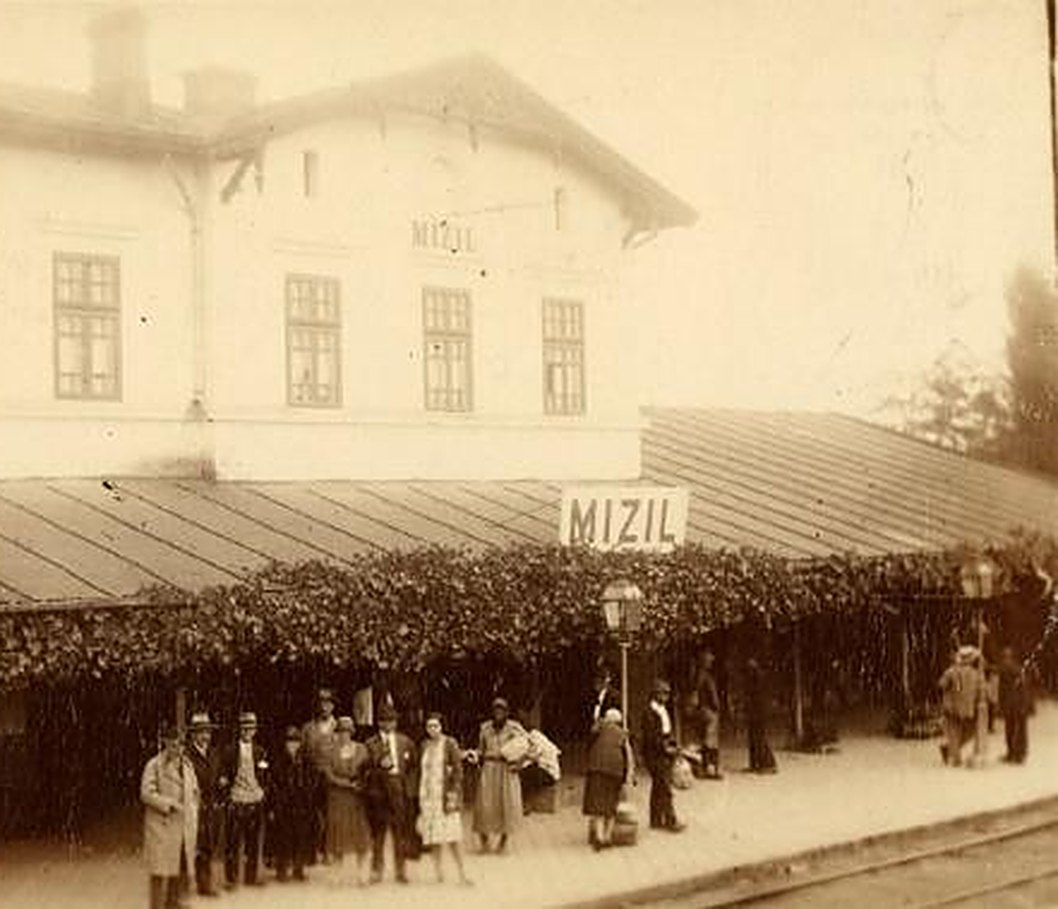
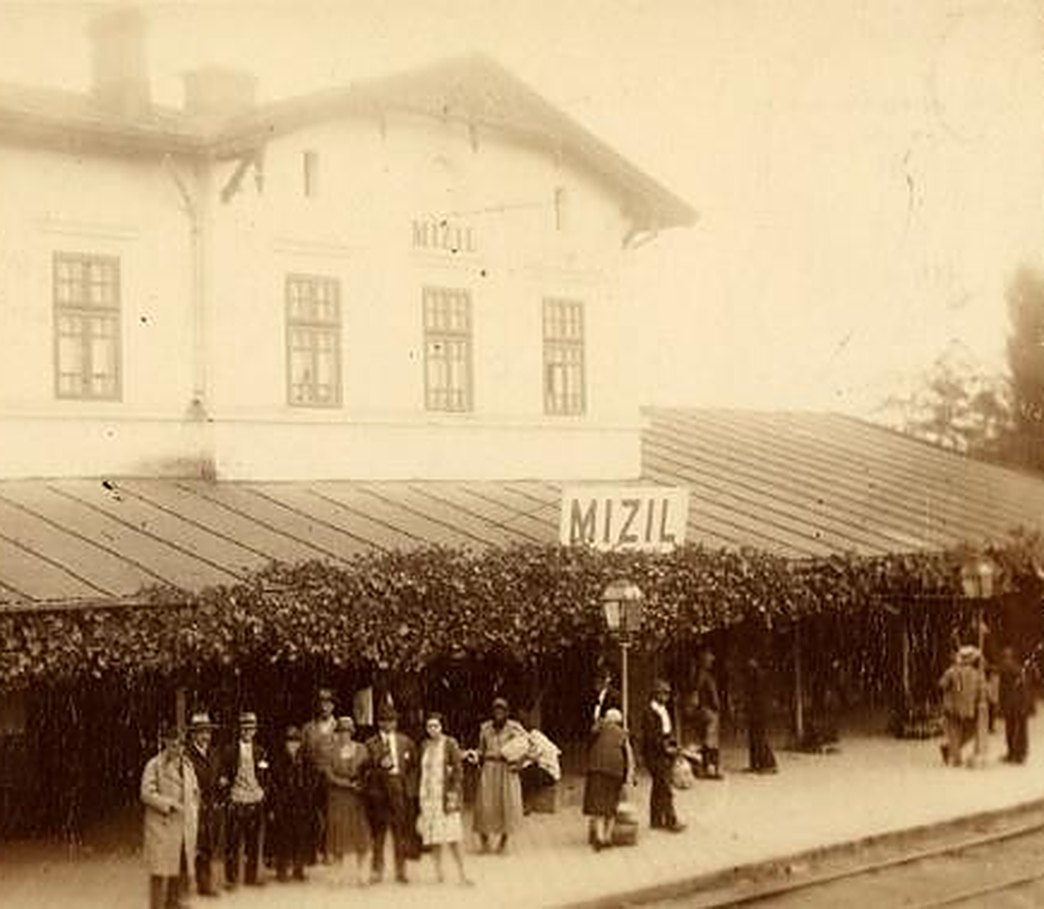
Hero: remove dark edge from station photo, enlarge image
Claude-Session: https://claude.ai/code/session_01BAujE8LoFgdk9CzoThrBGc

diff --git a/index.html b/index.html
@@ -17,7 +17,7 @@ body{margin:0;background:#f3edd9;color:#231f20;font-family:"Helvetica Neue",Helv
 a{color:#231f20}a:hover{color:#67472b}
 .wrap{max-width:1312px;margin:0 auto;padding-left:clamp(16px,4.4vw,64px);padding-right:clamp(16px,4.4vw,64px);box-sizing:content-box}
 .ral{font-family:Raleway,"Helvetica Neue",Helvetica,Arial,sans-serif}
-.hero-grid{display:grid;grid-template-columns:0.88fr 1.12fr;gap:clamp(24px,4vw,56px);align-items:end}
+.hero-grid{display:grid;grid-template-columns:0.76fr 1.24fr;gap:clamp(24px,4vw,56px);align-items:end}
 .intro-grid{display:grid;grid-template-columns:7fr 5fr;gap:clamp(32px,5vw,80px);align-items:start}
 .rooms{display:grid;grid-template-columns:repeat(3,minmax(0,1fr));gap:20px}
 .room-wide{grid-column:1 / -1}
@@ -117,15 +117,15 @@ html{scroll-behavior:smooth}
 <p class="ral" style="margin: 0; font-weight: 700; font-style: italic; font-size: clamp(20px,1.9vw,28px); line-height: 1.25; color: #67472b; text-wrap: balance">Fragilitatea memoriei<br>este sursa necunoscutului.</p>
 </div>
 </div>
-<figure style="position: relative; margin: 0; aspect-ratio: 1058 / 909; max-width: 100%; overflow: hidden">
+<figure style="position: relative; margin: 0; aspect-ratio: 1044 / 909; max-width: 100%; overflow: hidden">
 <img src="assets/img/hero-gara.jpg" alt="Peronul gării din Mizil, fotografie de epocă, cu tăblița MIZIL deasupra călătorilor" style="display: block; width: 100%; height: 100%; object-fit: cover">
 <video id="hero-loop" src="assets/video/mon-hero-loop.mp4" muted playsinline preload="auto" aria-hidden="true" tabindex="-1" style="position: absolute; inset: 0; width: 100%; height: 100%; object-fit: cover; opacity: 0; transition: opacity 1.4s ease"></video>
 
-<div aria-hidden="true" style="position: absolute; left: 74%; top: 0; width: 26%; height: 27%; background: #ffde4f"></div>
+<div aria-hidden="true" style="position: absolute; left: 74%; top: -1px; width: 27%; height: calc(27% + 1px); background: #ffde4f"></div>
 <div aria-hidden="true" style="position: absolute; left: 60%; top: 31%; width: 10%; height: 12%; background: #ffde4f"></div>
 <div aria-hidden="true" style="position: absolute; left: 27%; top: 41%; width: 7%; height: 8%; background: #ffde4f"></div>
-<div aria-hidden="true" style="position: absolute; left: 0; top: 79%; width: 9%; height: 21%; background: #ffde4f"></div>
-<div aria-hidden="true" style="position: absolute; left: 86%; top: 87%; width: 14%; height: 13%; background: #ffde4f"></div>
+<div aria-hidden="true" style="position: absolute; left: -1px; top: 79%; width: calc(9% + 1px); height: 22%; background: #ffde4f"></div>
+<div aria-hidden="true" style="position: absolute; left: 86%; top: 87%; width: 15%; height: 14%; background: #ffde4f"></div>
 
 <button id="play-film" class="play-btn" aria-label="Vezi filmul" type="button" aria-haspopup="dialog" style="position: absolute; left: 50%; top: 50%; transform: translate(-50%,-50%); width: clamp(52px,10.5%,72px); aspect-ratio: 1 / 1; display: flex; align-items: center; justify-content: center; padding: 0; border: 0; background: #ffde4f; cursor: pointer"><svg width="38%" viewBox="0 0 24 26" aria-hidden="true" style="display: block; margin-left: 6%"><path d="M2 1L23 13L2 25Z" fill="#231f20"></path></svg></button>
 </figure>
